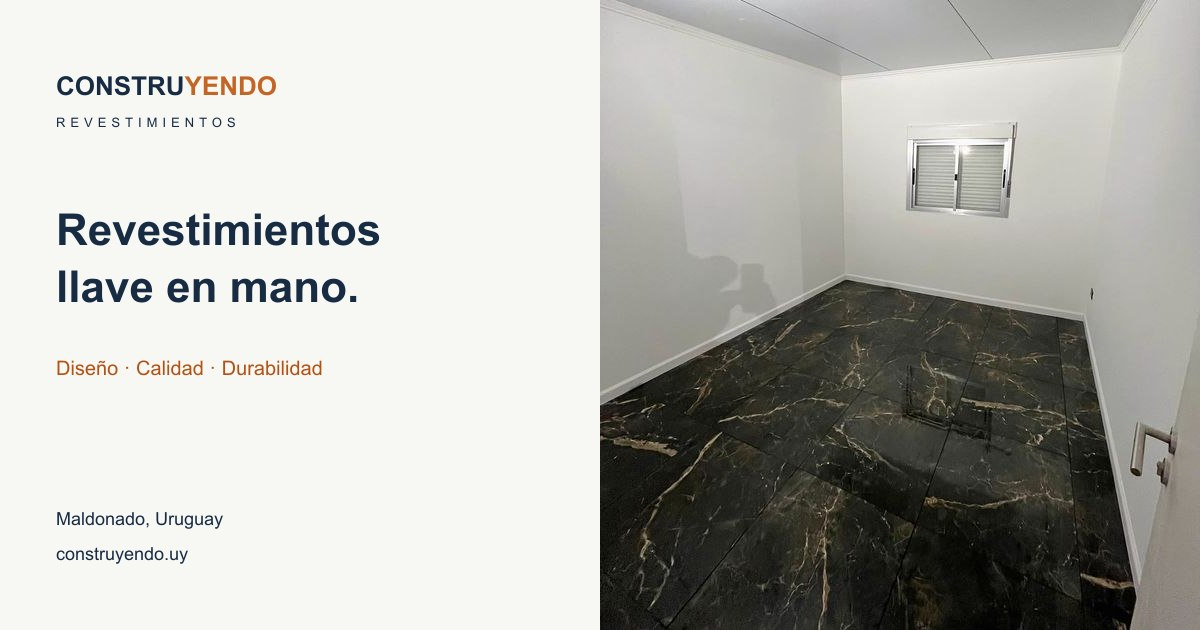
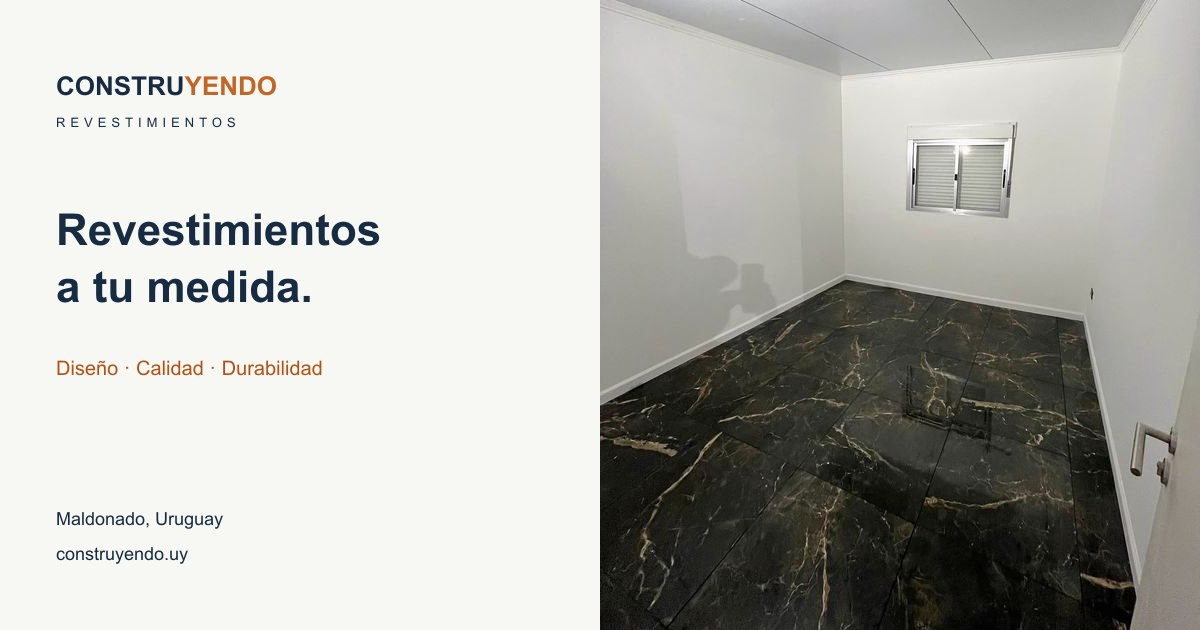
Actualizar textos de revestimientos y presentación social

Changed region(s): [[0.0308, 0.4222, 0.3083, 0.4825]]

diff --git a/src/components/Hero.tsx b/src/components/Hero.tsx
@@ -17,8 +17,8 @@ export function Hero() {
     </figure>
     <div className="cinema-copy container">
       <div className="cinema-eyebrow"><span className="status-dot" />REVESTIMIENTOS / MALDONADO, UY<span className="cinema-edition">OFICIO EN CADA DETALLE</span></div>
-      <h1 id="hero-title"><span className="hero-line"><span>Revestimientos</span></span><span className="hero-line hero-line--accent"><span>llave en mano.</span></span></h1>
-      <div className="cinema-copy-bottom"><p>Baños, pisos, piscinas, piedra y fachadas.<br /><strong>Vos abrís la puerta. Nosotros nos encargamos del resto.</strong></p><div className="cinema-actions"><a className="button button--architect button--halo" href="#presupuesto"><span>Pedir presupuesto</span><span className="button-arrow"><Icon name="arrow" size={22} /></span></a><a className="cinema-discover" href="#trabajos"><span>Conocé nuestros trabajos</span><span><Icon name="arrow-down" size={18} /></span></a></div><p className="cinema-fee-note">Visita y presupuesto {freeVisitPolicy.charAt(0).toLowerCase() + freeVisitPolicy.slice(1)}</p></div>
+      <h1 id="hero-title"><span className="hero-line"><span>Revestimientos</span></span><span className="hero-line hero-line--accent"><span>a tu medida.</span></span></h1>
+      <div className="cinema-copy-bottom"><p>Baños, pisos, piscinas, piedra y fachadas.<br /><strong>Colocación prolija, con atención a cada detalle.</strong></p><div className="cinema-actions"><a className="button button--architect button--halo" href="#presupuesto"><span>Pedir presupuesto</span><span className="button-arrow"><Icon name="arrow" size={22} /></span></a><a className="cinema-discover" href="#trabajos"><span>Conocé nuestros trabajos</span><span><Icon name="arrow-down" size={18} /></span></a></div><p className="cinema-fee-note">Visita y presupuesto {freeVisitPolicy.charAt(0).toLowerCase() + freeVisitPolicy.slice(1)}</p></div>
     </div>
     <div className="workscene-footer container"><div className="workscene-signature"><TileMark /><div><strong>Diseño · Calidad · Durabilidad</strong><span>De la preparación a la última junta.</span></div></div><a href="#trabajos" className="workscene-real-work">Ver obras reales<span><Icon name="arrow" size={18} /></span></a></div>
   </section>

diff --git a/src/App.tsx b/src/App.tsx
@@ -18,7 +18,7 @@ const steps = [
   { title: 'Nos escribís', text: 'Contanos por WhatsApp qué querés revestir y en qué zona. Si tenés fotos del lugar, mandalas.' },
   { title: 'Vamos a ver el trabajo', text: 'Cada obra es distinta, por eso el presupuesto siempre se hace en el lugar. La visita y el presupuesto son sin cargo en la ciudad de Maldonado y Punta del Este. En las demás zonas tienen costo según la ubicación.' },
   { title: 'Te pasamos el presupuesto', text: 'Con el trabajo a la vista acordamos el precio, la forma de pago y los plazos.' },
-  { title: 'Obra llave en mano', text: 'Vos nos abrís la puerta y nosotros nos encargamos del resto, de la preparación a la última junta.' },
+  { title: 'Colocamos el revestimiento', text: 'Trabajamos en la preparación, colocación y terminación del revestimiento, cuidando cada detalle.' },
 ]
 const processProjects: Project[] = processPhotos.map((photo, index) => ({ ...photo, category: index === 1 ? 'banos' : index === 2 ? 'escaleras' : 'pisos' }))
 const projectById = (id: string) => projects.find((photo) => photo.id === id)!
@@ -97,7 +97,7 @@ function App() {
         <div className="benefits-wrap"><div className="benefits container">
           <div className="benefit" data-reveal="up"><span className="benefit-icon"><Icon name="visit" size={30} /></span><div><strong>Presupuesto en tu obra</strong><span>Sin cargo en Maldonado ciudad y Punta del Este.</span></div></div>
           <div className="benefit" data-reveal="up"><span className="benefit-icon"><Icon name="money" size={30} /></span><div><strong>Efectivo o transferencia</strong><span>Lo coordinamos con vos.</span></div></div>
-          <div className="benefit" data-reveal="up"><span className="benefit-icon"><Icon name="key" size={30} /></span><div><strong>Trabajo llave en mano</strong><span>De la preparación a la terminación.</span></div></div>
+          <div className="benefit" data-reveal="up"><span className="benefit-icon"><Icon name="tile" size={30} /></span><div><strong>Colocación y terminaciones</strong><span>Cuidado en cada detalle.</span></div></div>
         </div></div>
 
         <section id="trabajos" className="work-section section-space container">

diff --git a/index.html b/index.html
@@ -5,17 +5,17 @@
     <meta name="viewport" content="width=device-width, initial-scale=1.0, viewport-fit=cover" />
     <meta name="theme-color" content="#172b43" />
     <title>ConstruYENDO · Revestimientos en Maldonado</title>
-    <meta name="description" content="Revestimientos llave en mano en Maldonado. Baños, pisos, piscinas y piedra librillo. Presupuesto sin cargo en Maldonado ciudad y Punta del Este; otras zonas según ubicación." />
+    <meta name="description" content="Revestimientos a tu medida en Maldonado. Baños, pisos, piscinas y piedra librillo. Presupuesto sin cargo en Maldonado ciudad y Punta del Este; otras zonas según ubicación." />
     <link rel="canonical" href="https://santi-sv.github.io/construyendo-uy/" />
     <link rel="icon" type="image/svg+xml" href="/favicon.svg" />
     <link rel="apple-touch-icon" href="/apple-touch-icon.png" />
     <meta property="og:type" content="website" />
     <meta property="og:locale" content="es_UY" />
     <meta property="og:site_name" content="ConstruYENDO Revestimientos" />
-    <meta property="og:title" content="ConstruYENDO · Revestimientos llave en mano" />
+    <meta property="og:title" content="ConstruYENDO · Revestimientos a tu medida" />
     <meta property="og:description" content="Diseño · Calidad · Durabilidad. Obras reales en Maldonado. Presupuesto sin cargo en Maldonado ciudad y Punta del Este. Otras zonas: costo según ubicación." />
     <meta property="og:url" content="https://santi-sv.github.io/construyendo-uy/" />
-    <meta property="og:image" content="https://santi-sv.github.io/construyendo-uy/images/portada-social.jpg" />
+    <meta property="og:image" content="https://santi-sv.github.io/construyendo-uy/images/portada-social.jpg?v=20261030" />
     <meta property="og:image:width" content="1200" />
     <meta property="og:image:height" content="630" />
     <meta property="og:image:alt" content="ConstruYENDO Revestimientos y piso de porcelanato símil mármol negro colocado en Maldonado" />

diff --git a/AGENTS.md b/AGENTS.md
@@ -8,3 +8,4 @@
 - Visita y presupuesto sin cargo únicamente en la ciudad de Maldonado y Punta del Este. Las demás zonas tienen costo según ubicación; evitar promesas generales de gratuidad.
 - Las fotografías se mejoran mediante ajustes locales de exposición, color y nitidez, sin regeneración con IA; preservar siempre los originales.
 - Por pedido explícito del usuario, el hero usa desde el 30/10/2026 la imagen ilustrativa proporcionada de dos trabajadores de espalda en una vivienda moderna al atardecer. Identificarla como imagen ilustrativa; no incorporarla a la galería de obras reales. Conservar también el maestro de la portada anterior.
+- Por pedido del usuario del 30/10/2026, no ofrecer el servicio como «llave en mano» en textos, metadatos, imagen social ni contacto descargable. El título de portada es «Revestimientos a tu medida».
